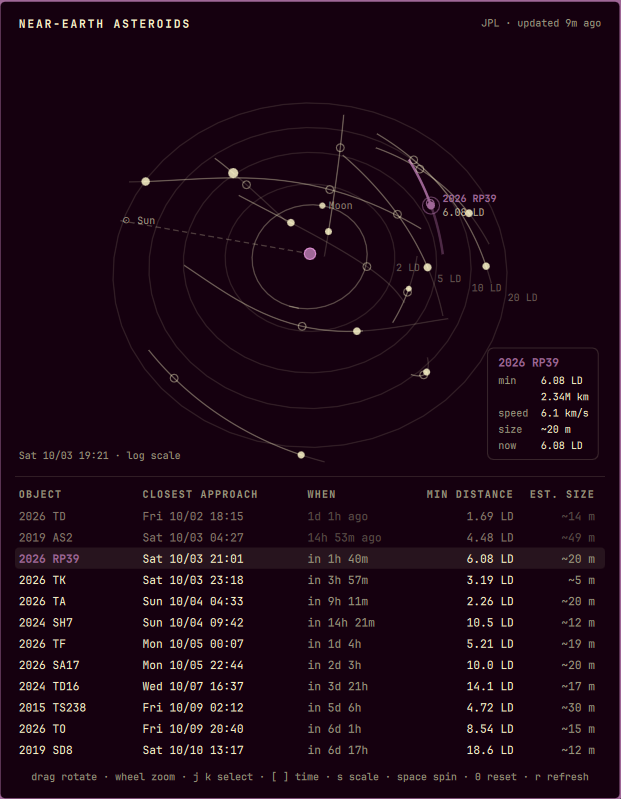
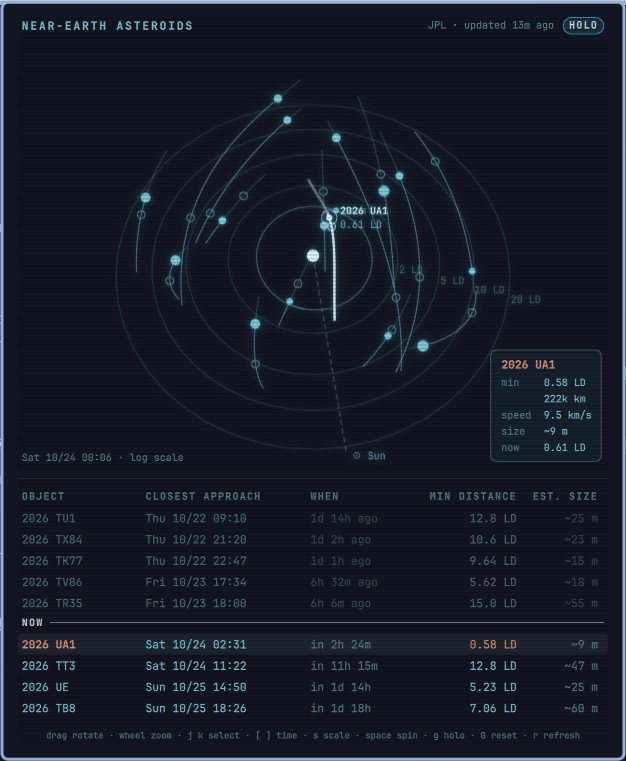
Add a hologram mode to the panel
A cyan monochrome palette, a glow behind the radar (a MultiEffect
shadow with no offset, re-rendered only when the radar changes),
static scanlines, and every few seconds either a shine sweeping down
the panel or a brief flicker. Nothing animates between those bursts.

Toggle it with the HOLO button in the header, g, or the new holo IPC
call; h was taken, since the key catcher reads it as rotate left. The
choice is kept in ~/.cache/omarchy-asteroid-radar-ui.json, and the new
hologram setting is only the default until something is chosen.

The help line now shrinks slightly instead of running past the panel
edge, and the preview shows the hologram look.

diff --git a/Panel.qml b/Panel.qml
@@ -1,5 +1,6 @@
 import QtQuick
 import QtQuick.Controls
+import QtQuick.Effects
 import QtQuick.Shapes
 import Quickshell
 import Quickshell.Io
@@ -35,6 +36,14 @@ Panel {
   readonly property int refreshHours: Math.max(1, parseInt(setting("refreshHours", 6), 10) || 6)
   readonly property real maxDistLd: Math.max(2, Math.min(80, parseFloat(setting("maxDistanceLd", 20)) || 20))
   readonly property int maxObjects: Math.max(1, Math.min(30, parseInt(setting("maxObjects", 15), 10) || 15))
+
+  // Hologram mode: a cyan monochrome palette, glow on the radar, scanlines,
+  // an occasional shine and flicker. Toggled from the header, g or IPC; that
+  // choice is kept in its own small file, and the setting is only the default
+  // until something is chosen.
+  property string holoChoice: ""    // "", "on" or "off"
+  readonly property bool hologram: holoChoice === ""
+    ? String(setting("hologram", false)) === "true" : holoChoice === "on"
 
   // ------------------------------------------------------------ state
 
@@ -133,6 +142,13 @@ Panel {
     selected = (selected + delta + byTime.length) % byTime.length
     radar.requestPaint()
   }
+
+  function setHologram(on) {
+    holoChoice = on ? "on" : "off"
+    uiFile.setText(JSON.stringify({ hologram: on }))
+  }
+
+  onHologramChanged: radar.requestPaint()
 
   function resetView() {
     timeOffset = 0
@@ -333,6 +349,44 @@ Panel {
     }
   }
 
+  FileView {
+    id: uiFile
+    path: Quickshell.env("HOME") + "/.cache/omarchy-asteroid-radar-ui.json"
+    atomicWrites: true
+    printErrors: false
+    onLoaded: {
+      try {
+        var data = JSON.parse(text())
+        if (typeof data.hologram === "boolean") root.holoChoice = data.hologram ? "on" : "off"
+      } catch (e) {}
+    }
+  }
+
+  // Hologram motion: every few seconds either a shine sweeps down the panel
+  // or the content flickers. Nothing runs between the two, so an open panel
+  // stays idle apart from these short bursts.
+  property real holoFlicker: 1
+
+  Timer {
+    id: holoTimer
+    interval: 3000
+    running: root.opened && root.hologram
+    repeat: true
+    onTriggered: {
+      interval = 4000 + Math.random() * 5000
+      if (Math.random() < 0.35) flicker.restart()
+      else sweep.restart()
+    }
+  }
+
+  SequentialAnimation {
+    id: flicker
+    NumberAnimation { target: root; property: "holoFlicker"; to: 0.45; duration: 40 }
+    NumberAnimation { target: root; property: "holoFlicker"; to: 0.95; duration: 60 }
+    NumberAnimation { target: root; property: "holoFlicker"; to: 0.65; duration: 40 }
+    NumberAnimation { target: root; property: "holoFlicker"; to: 1; duration: 120 }
+  }
+
   IpcHandler {
     target: root.ipcTarget
 
@@ -342,6 +396,10 @@ Panel {
     function hide(): void { root.close() }
     function toggle(): void { root.toggle() }
     function refresh(): void { root.refresh() }
+    function holo(mode: string): string {
+      root.setHologram(mode === "on" ? true : mode === "off" ? false : !root.hologram)
+      return root.hologram ? "on" : "off"
+    }
     function spin(mode: string): string {
       root.autoRotate = mode === "on" ? true : mode === "off" ? false : !root.autoRotate
       root.wake()
@@ -357,11 +415,12 @@ Panel {
 
   // ------------------------------------------------------------ the panel
 
-  readonly property color fg: root.bar ? root.bar.foreground : Commons.Color.foreground
+  readonly property color fg: hologram ? "#8eeeff" : (root.bar ? root.bar.foreground : Commons.Color.foreground)
   readonly property string fontFamily: root.bar ? root.bar.fontFamily : Style.font.family
   readonly property color dim: Qt.darker(fg, 1.6)
-  readonly property color accent: Commons.Color.accent
-  readonly property color warn: Commons.Color.urgent
+  readonly property color accent: hologram ? "#e8fdff" : Commons.Color.accent
+  readonly property color warn: hologram ? "#ffa47e" : Commons.Color.urgent
+  readonly property color holoGlow: "#3fd8ff"
 
   // Approach list column widths, shared by the heading row and each row.
   readonly property real colName: Style.space(110)
@@ -428,6 +487,7 @@ Panel {
       }
       onTextKey: function(text) {
         if (text === "r") root.refresh()
+        else if (text === "g") root.setHologram(!root.hologram)
         else if (text === "s") { root.logScale = !root.logScale; radar.requestPaint() }
         else if (text === "]") { root.timeOffset += 3 * Model.HOUR_MS; radar.requestPaint() }
         else if (text === "[") { root.timeOffset -= 3 * Model.HOUR_MS; radar.requestPaint() }
@@ -440,6 +500,7 @@ Panel {
         id: column
         width: parent.width
         spacing: Style.space(10)
+        opacity: root.hologram ? 0.88 * root.holoFlicker : 1
 
         // ---------------------------------------------------- header
 
@@ -460,9 +521,42 @@ Panel {
             font.letterSpacing: 1.5
           }
 
-          Text {
+          Rectangle {
+            id: holoToggle
             anchors.right: parent.right
             anchors.rightMargin: Style.space(4)
+            anchors.verticalCenter: title.verticalCenter
+            width: holoLabel.implicitWidth + Style.space(12)
+            height: holoLabel.implicitHeight + Style.space(4)
+            radius: height / 2
+            color: root.hologram ? Qt.rgba(root.holoGlow.r, root.holoGlow.g, root.holoGlow.b, 0.15) : "transparent"
+            border.width: 1
+            border.color: root.hologram ? Qt.rgba(root.holoGlow.r, root.holoGlow.g, root.holoGlow.b, 0.7)
+              : Qt.rgba(root.fg.r, root.fg.g, root.fg.b, holoMouse.containsMouse ? 0.5 : 0.2)
+
+            Text {
+              id: holoLabel
+              anchors.centerIn: parent
+              text: "HOLO"
+              color: root.hologram ? root.accent : root.dim
+              font.family: root.fontFamily
+              font.pixelSize: Style.font.caption
+              font.bold: true
+              font.letterSpacing: 1
+            }
+
+            MouseArea {
+              id: holoMouse
+              anchors.fill: parent
+              hoverEnabled: true
+              cursorShape: Qt.PointingHandCursor
+              onClicked: root.setHologram(!root.hologram)
+            }
+          }
+
+          Text {
+            anchors.right: holoToggle.left
+            anchors.rightMargin: Style.space(8)
             anchors.verticalCenter: title.verticalCenter
             color: root.lastError ? root.warn : root.dim
             font.family: root.fontFamily
@@ -488,6 +582,20 @@ Panel {
             id: radar
             anchors.fill: parent
             clip: true
+
+            // Hologram glow: a blurred copy of the whole radar drawn behind
+            // it. The layer only re-renders when the radar changes.
+            layer.enabled: root.hologram
+            layer.effect: MultiEffect {
+              shadowEnabled: true
+              shadowColor: root.holoGlow
+              shadowOpacity: 1
+              shadowBlur: 0.7
+              blurMax: 20
+              shadowHorizontalOffset: 0
+              shadowVerticalOffset: 0
+              brightness: 0.08
+            }
 
             // Screen positions of the last frame's dots, for hover picking.
             property var hits: []
@@ -755,9 +863,10 @@ Panel {
             width: infoColumn.implicitWidth + Style.space(20)
             height: infoColumn.implicitHeight + Style.space(14)
             radius: Style.space(6)
-            color: Qt.rgba(Commons.Color.popups.background.r, Commons.Color.popups.background.g, Commons.Color.popups.background.b, 0.78)
+            color: root.hologram ? Qt.rgba(root.holoGlow.r, root.holoGlow.g, root.holoGlow.b, 0.07)
+              : Qt.rgba(Commons.Color.popups.background.r, Commons.Color.popups.background.g, Commons.Color.popups.background.b, 0.78)
             border.width: 1
-            border.color: Qt.rgba(root.fg.r, root.fg.g, root.fg.b, 0.15)
+            border.color: Qt.rgba(root.fg.r, root.fg.g, root.fg.b, root.hologram ? 0.35 : 0.15)
 
             Column {
               id: infoColumn
@@ -980,7 +1089,56 @@ Panel {
           color: root.dim
           font.family: root.fontFamily
           font.pixelSize: Style.font.caption
-          text: "drag rotate · wheel zoom · j k select · [ ] time · s scale · space spin · 0 reset · r refresh"
+          // Shrinks a little rather than run past the panel edge.
+          fontSizeMode: Text.HorizontalFit
+          minimumPixelSize: Style.font.caption - 2
+          text: "drag rotate · wheel zoom · j k select · [ ] time · s scale · space spin · g holo · 0 reset · r refresh"
+        }
+      }
+
+      // Hologram overlays, over the content and without mouse handling so
+      // clicks and drags fall through.
+      Item {
+        anchors.fill: column
+        visible: root.hologram
+        clip: true
+
+        // Scanlines, painted once per size: a static Canvas costs nothing
+        // between repaints.
+        Canvas {
+          id: scanlines
+          anchors.fill: parent
+          onWidthChanged: requestPaint()
+          onHeightChanged: requestPaint()
+          onPaint: {
+            var ctx = getContext("2d")
+            ctx.reset()
+            ctx.fillStyle = "rgba(0, 0, 0, 0.22)"
+            for (var y = 0; y < height; y += 3) ctx.fillRect(0, y, width, 1)
+          }
+        }
+
+        Rectangle {
+          id: shine
+          width: parent.width
+          height: Style.space(90)
+          y: -height
+          visible: sweep.running
+          gradient: Gradient {
+            GradientStop { position: 0.0; color: "transparent" }
+            GradientStop { position: 0.5; color: Qt.rgba(root.holoGlow.r, root.holoGlow.g, root.holoGlow.b, 0.13) }
+            GradientStop { position: 0.56; color: Qt.rgba(1, 1, 1, 0.12) }
+            GradientStop { position: 1.0; color: "transparent" }
+          }
+
+          NumberAnimation on y {
+            id: sweep
+            running: false
+            from: -shine.height
+            to: column.height
+            duration: 1500
+            easing.type: Easing.InOutSine
+          }
         }
       }
     }

diff --git a/README.md b/README.md
@@ -24,6 +24,9 @@ panel draws every pass in 3D around Earth and the Moon, and you can rotate it.
   scrolls past ten rows so the panel stays on screen.
 - **Time scrub:** step the whole scene forward or back three hours at a time to
   watch the passes play out.
+- **Hologram mode:** a cyan monochrome look with a glow on the radar,
+  scanlines, and an occasional shine and flicker. Toggle it with the `HOLO`
+  button in the header or `g`; the choice is remembered across restarts.
 
 ## Install
 
@@ -40,7 +43,7 @@ omarchy plugin remove mechurisr.asteroid-radar
 The cached data stays behind. Delete it too if you want nothing left:
 
 ```bash
-rm -f ~/.cache/omarchy-asteroid-radar.json
+rm -f ~/.cache/omarchy-asteroid-radar.json ~/.cache/omarchy-asteroid-radar-ui.json
 ```
 
 ## Controls
@@ -56,6 +59,7 @@ rm -f ~/.cache/omarchy-asteroid-radar.json
 | `[` / `]` | Move time back / forward by 3 hours |
 | `s` | Switch between log and linear distance scale |
 | `Space` | Toggle auto-rotation |
+| `g` | Toggle hologram mode |
 | `0` | Reset the view and time |
 | `r` | Fetch fresh data |
 | `Esc` | Close |
@@ -70,6 +74,7 @@ so a panel left open does not keep redrawing.
 | `refreshHours` | `6` | How often to fetch new data |
 | `maxDistanceLd` | `20` | Only list approaches closer than this many lunar distances |
 | `maxObjects` | `15` | Upper limit on objects shown, nearest first |
+| `hologram` | `false` | Hologram mode until it is toggled in the panel |
 
 ## Data
 
@@ -94,12 +99,14 @@ within about a factor of two. Measured diameters are used when JPL has one.
 ```bash
 qs -p /usr/share/omarchy/shell ipc call mechurisr.asteroid-radar open|close|toggle|refresh|status
 qs -p /usr/share/omarchy/shell ipc call mechurisr.asteroid-radar spin on|off|toggle
+qs -p /usr/share/omarchy/shell ipc call mechurisr.asteroid-radar holo on|off|toggle
 ```
 
 ## Requirements
 
 `curl`, which a stock Omarchy install already has. Rendering uses
-`QtQuick.Shapes`, which ships with Qt, so nothing else needs installing.
+`QtQuick.Shapes` and `QtQuick.Effects`, which ship with Qt, so nothing else
+needs installing.
 
 ## License
 
